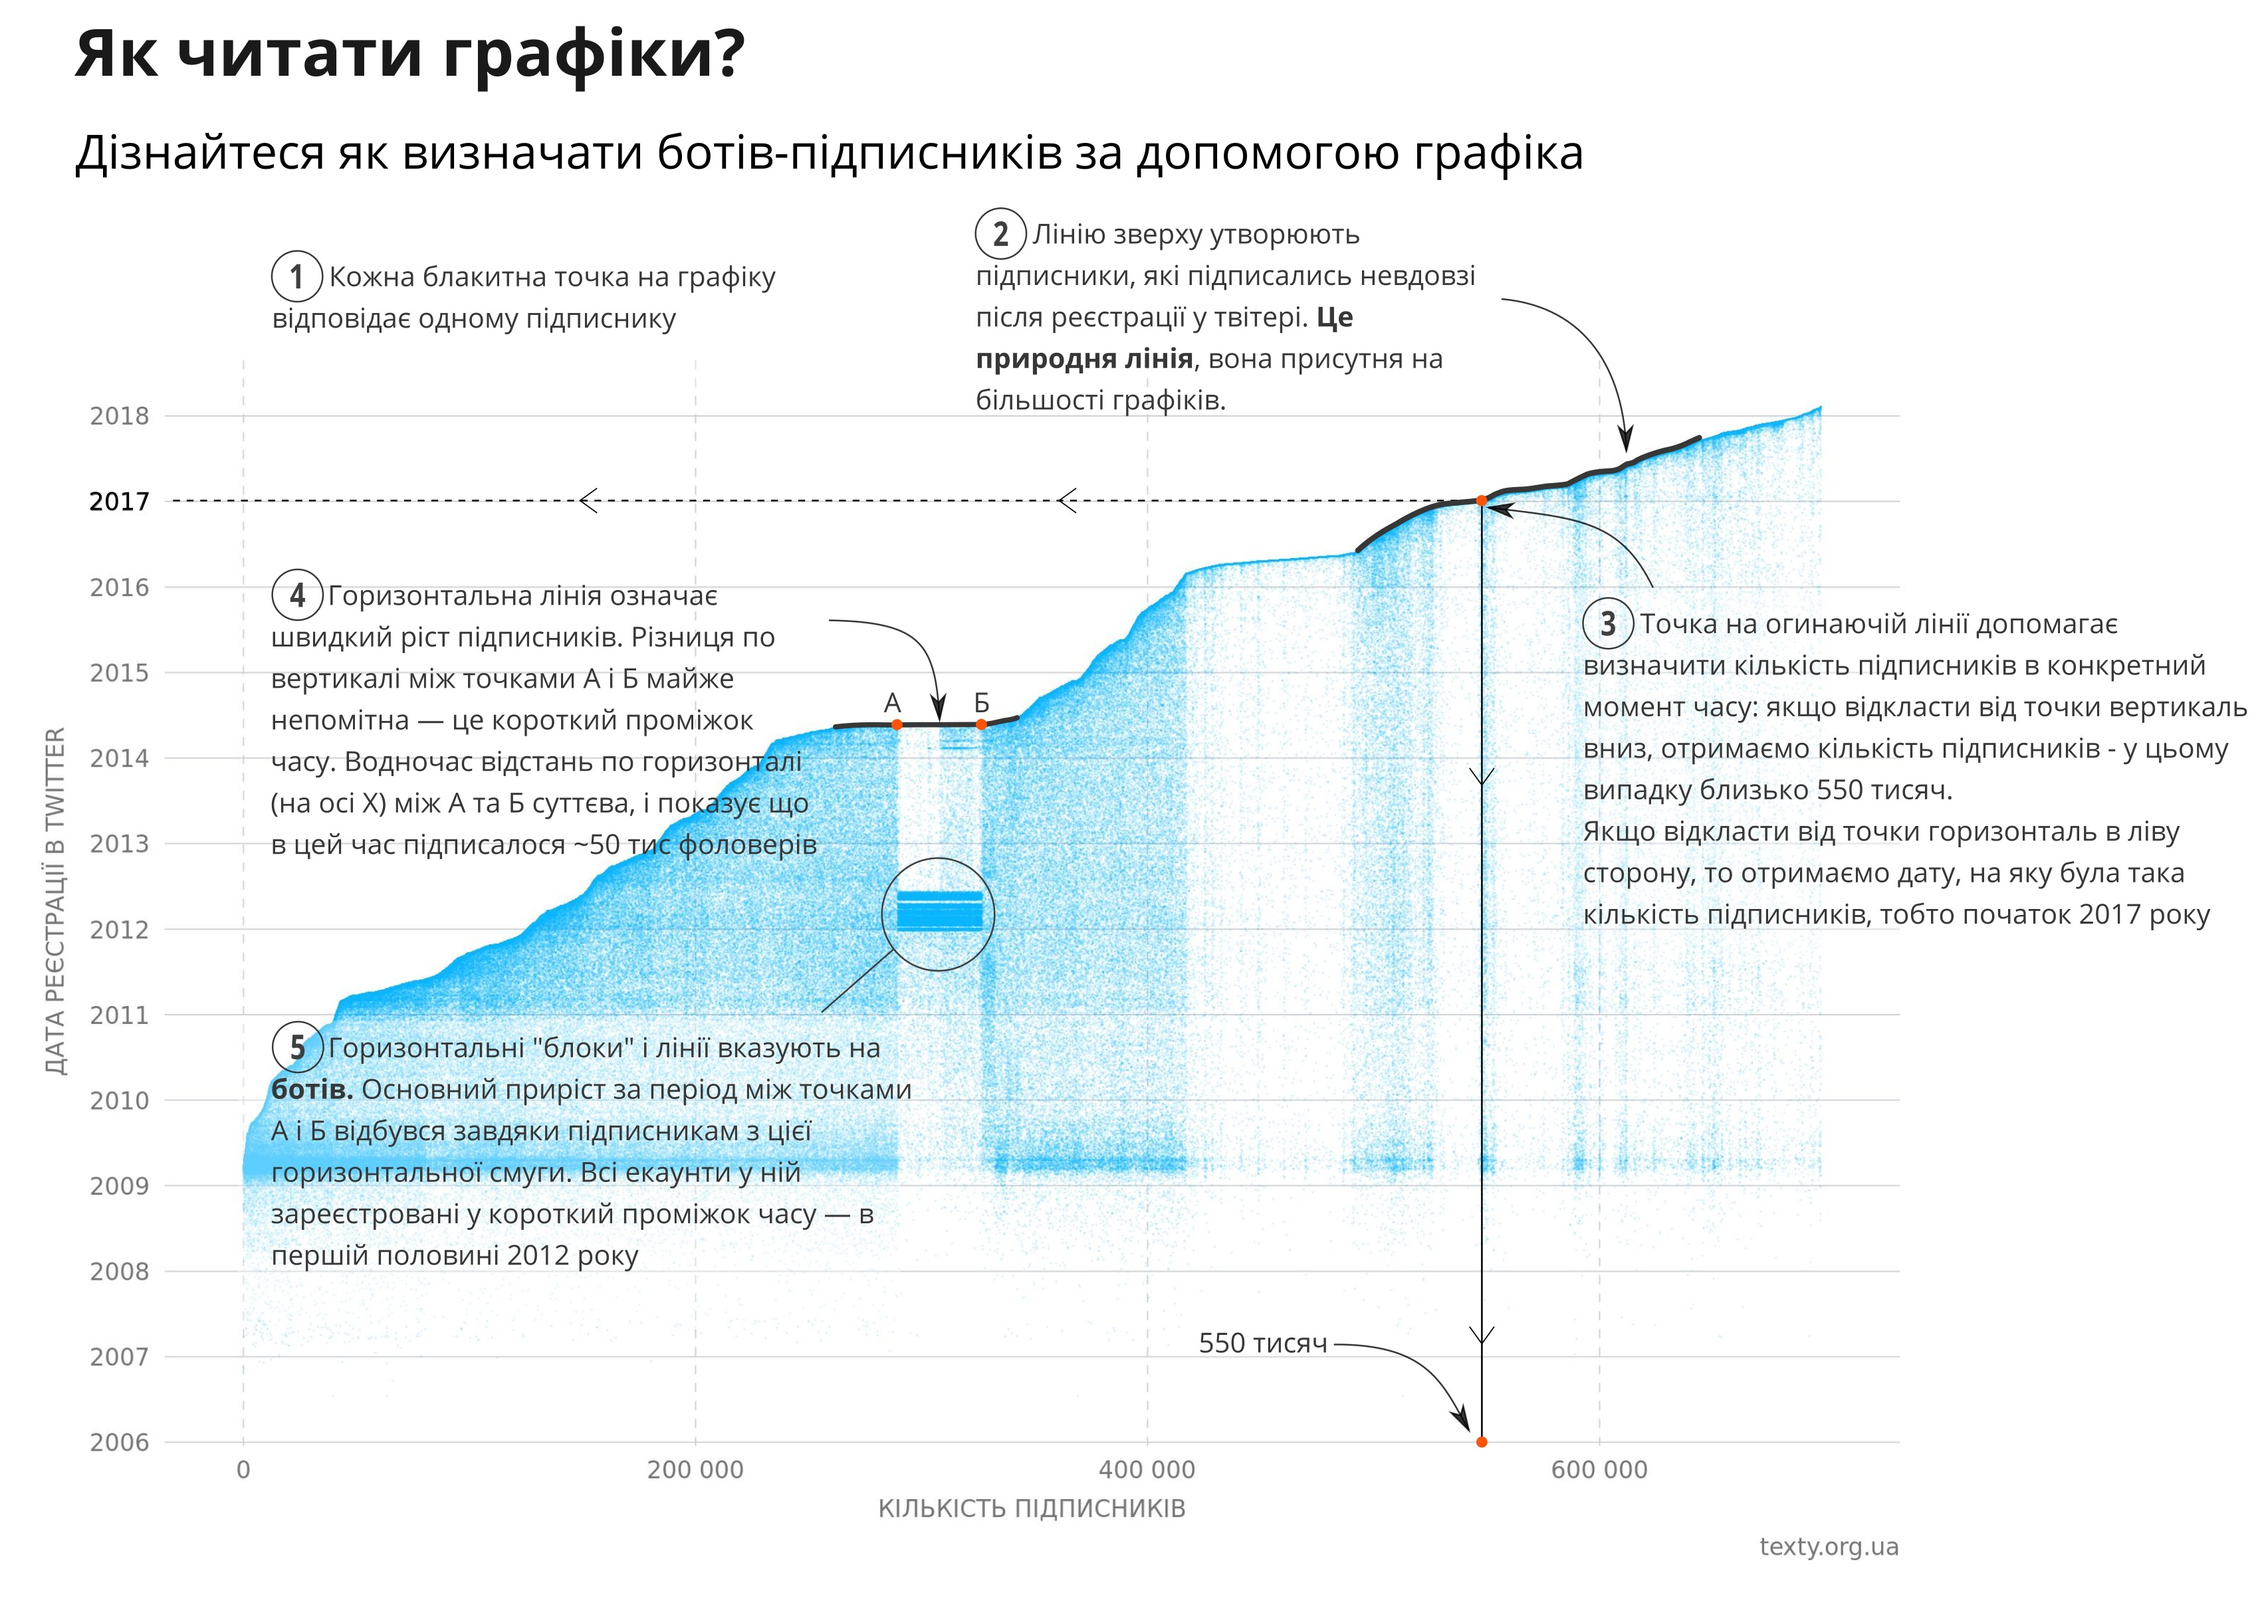
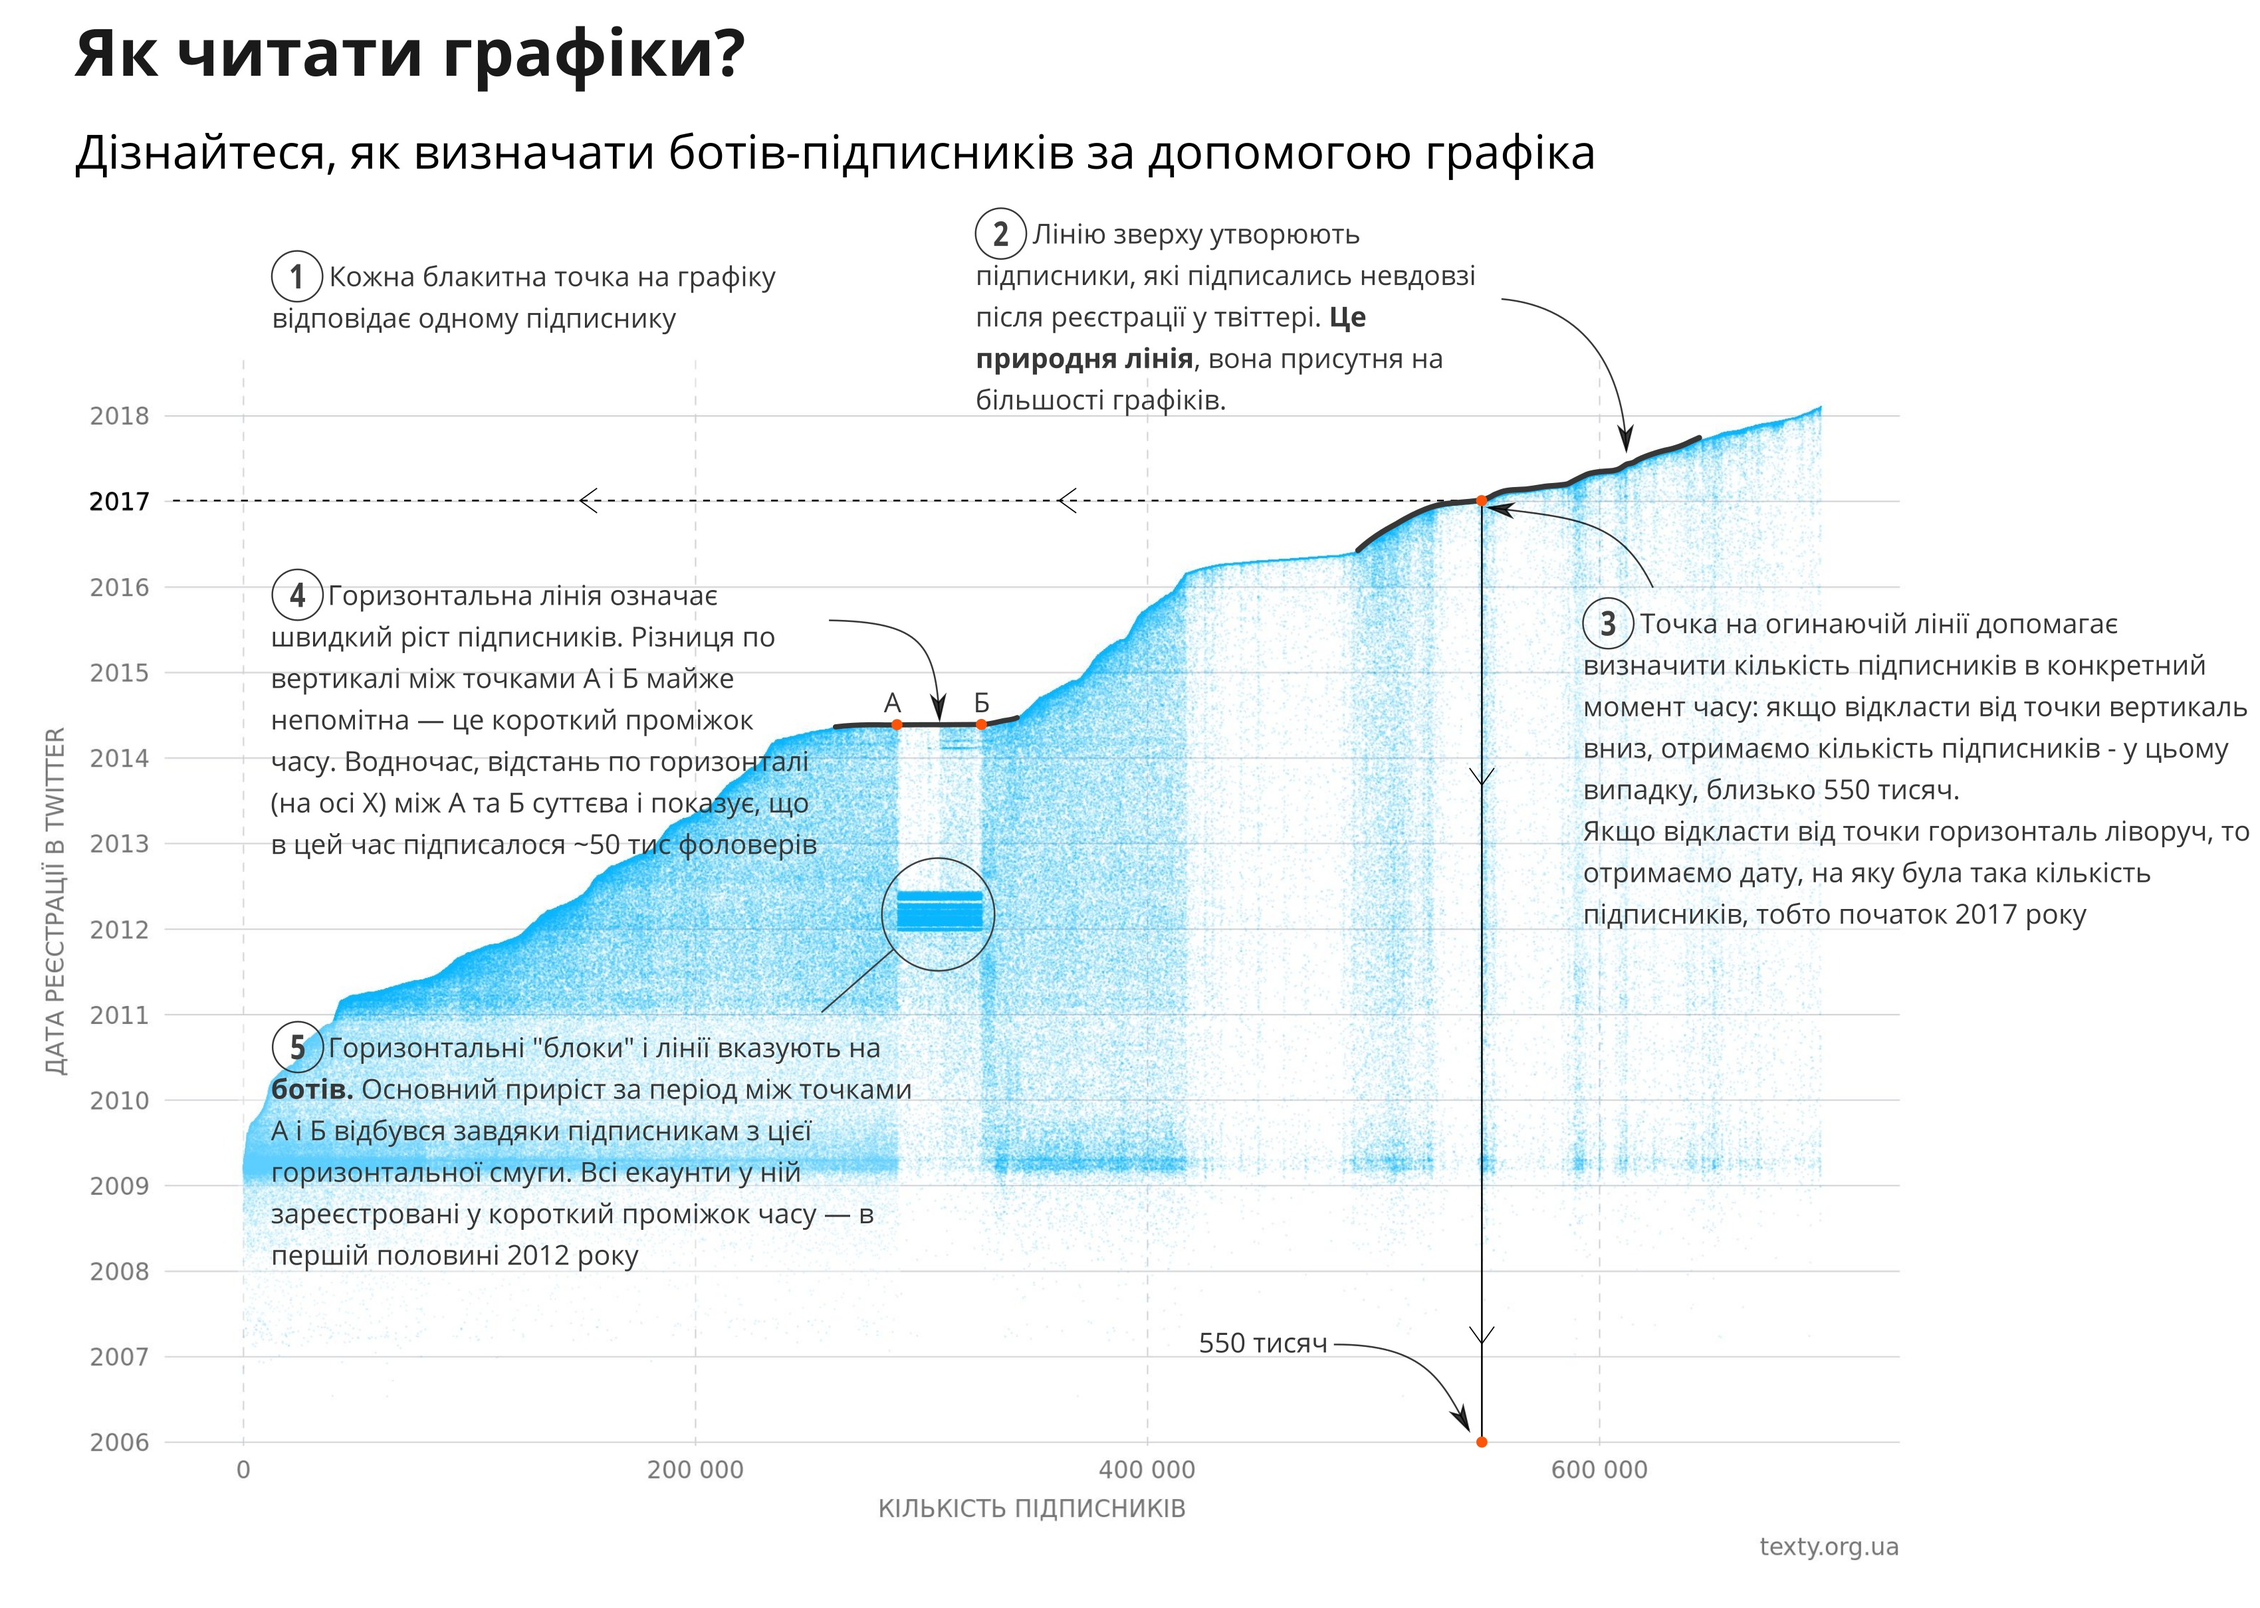
правки від Р

diff --git a/index.html b/index.html
@@ -148,7 +148,7 @@
         <div class="col-xs-12 col-sm-10 col-lg-8 col-sm-offset-1 col-lg-offset-2">
             <h3>Ботовод із Самбора</h3>
             <p>Як і у кого Медведчук міг взяти ботів?</p>
-            <p>Серед ТОП-10 за популярністю українських Твіттер-екаунтів на 6-му місці такий собі Markus Honher з ніком <a href="https://twitter.com/awentos" target="_blank" class="dotted">@awentos</a>. У нього трохи більше мільйона підписників. І майже всі його підписники – боти. Це й не дивно, бо @awentos – ботовод. У Твіттері він описує себе як “популярний блогер, SEO та SMM спеціаліст”.</p>
+            <p>Серед ТОП-10 за популярністю українських Твіттер-екаунтів на 6-му місці такий собі Markus Hohner з ніком <a href="https://twitter.com/awentos" target="_blank" class="dotted">@awentos</a>. У нього трохи більше мільйона підписників. І майже всі його підписники – боти. Це й не дивно, бо @awentos – ботовод. У Твіттері він описує себе як “популярний блогер, SEO та SMM спеціаліст”.</p>
         </div>
     </div>
 
@@ -196,10 +196,10 @@
 
     <div class="row">
         <div class="col-xs-12 col-sm-10 col-lg-8 col-sm-offset-1 col-lg-offset-2">
-            <p>Співачка Камалія також користується послугами ботів. На малюнку добре помітні скупчення та горизонтальні плато. Це означає, що підписники фоловлять цей екаунт "пакунками" впродовж короткого періоду часу. Єдине місце де графік виглядає природнім співпадає із періодом дуже повільного росту підписників </p>
+            <p>Співачка Камалія також користується послугами ботів. На малюнку добре помітні скупчення та горизонтальні плато. Це означає, що підписники фоловлять цей екаунт "пакунками" впродовж короткого періоду часу. Єдине місце, де графік виглядає природнім, співпадає із періодом дуже повільного росту підписників. </p>
 
             <h3>Усі за «холостяком»</h3>
-            <p>Все по-іншому у <a href="https://uk.wikipedia.org/wiki/%D0%A7%D0%BC%D0%B5%D1%80%D0%BA%D0%BE%D0%B2%D1%81%D1%8C%D0%BA%D0%B8%D0%B9_%D0%9C%D0%B0%D0%BA%D1%81%D0%B8%D0%BC_%D0%9E%D0%BB%D0%B5%D0%BA%D1%81%D0%B0%D0%BD%D0%B4%D1%80%D0%BE%D0%B2%D0%B8%D1%87" target="_blank" class="dotted">Максима Чмерковського</a>, танцюриста, відомого своєю участю в українських та американських реаліті-шоу </p>
+            <p>Все по-іншому у <a href="https://uk.wikipedia.org/wiki/%D0%A7%D0%BC%D0%B5%D1%80%D0%BA%D0%BE%D0%B2%D1%81%D1%8C%D0%BA%D0%B8%D0%B9_%D0%9C%D0%B0%D0%BA%D1%81%D0%B8%D0%BC_%D0%9E%D0%BB%D0%B5%D0%BA%D1%81%D0%B0%D0%BD%D0%B4%D1%80%D0%BE%D0%B2%D0%B8%D1%87" target="_blank" class="dotted">Максима Чмерковського</a>, танцюриста, відомого своєю участю в українських та американських реаліті-шоу. </p>
         </div>
     </div>
 
@@ -219,7 +219,7 @@
             <p>Натомість, вертикальні однорідні лінії можна пояснити хвилями популярності, які призводили до раптового росту кількості підписників із різними датами реєстрації.</p>
 
             <p>Нижче дивіться на графіки інших популярних Твіттер-екаунтів: від Юлії Тимошенко - до Петра Порошенка, від Святослава Вакарчука – до Насті Каменських.
-                Нагадаємо, що зрозуміти графіки допоможе <a class="dotted clickable" href="javascript: void(0);" data-img-src="img/how_to_read.jpg">інструкція </a> а також просте правило: неоднорідні скупчення на картинці свідчать про ботів-підписників. </p>
+                Нагадаємо, що зрозуміти графіки допоможе <a class="dotted clickable" href="javascript: void(0);" data-img-src="img/how_to_read.jpg">інструкція </a>, а також просте правило: неоднорідні скупчення на картинці свідчать про ботів-підписників. </p>
         </div>
     </div>
 
@@ -237,10 +237,10 @@
     
     <div class="row">
         <div class="col-xs-12 desktop">
-            <p class="chart-annotation">Кілкніть на картинку щоб дивитись графік. <b>Ctrl+клік</b> – відкрити профіль в twitter</p>
+            <p class="chart-annotation">Кілкніть на картинку, щоб дивитись графік. <b>Ctrl+клік</b> – відкрити профіль в twitter</p>
         </div>
         <div class="col-xs-12 mobile">
-            <p class="chart-annotation" style="font-size: 1.5em;">Клікніть по картинці другий раз щоб відкрити графік. Клік по <span class="username">@юзернейму</span> відкриває twitter</p>
+            <p class="chart-annotation" style="font-size: 1.5em;">Клікніть по картинці другий раз, щоб відкрити графік. Клік по <span class="username">@юзернейму</span> відкриває twitter</p>
         </div>
     </div>
 </div>
